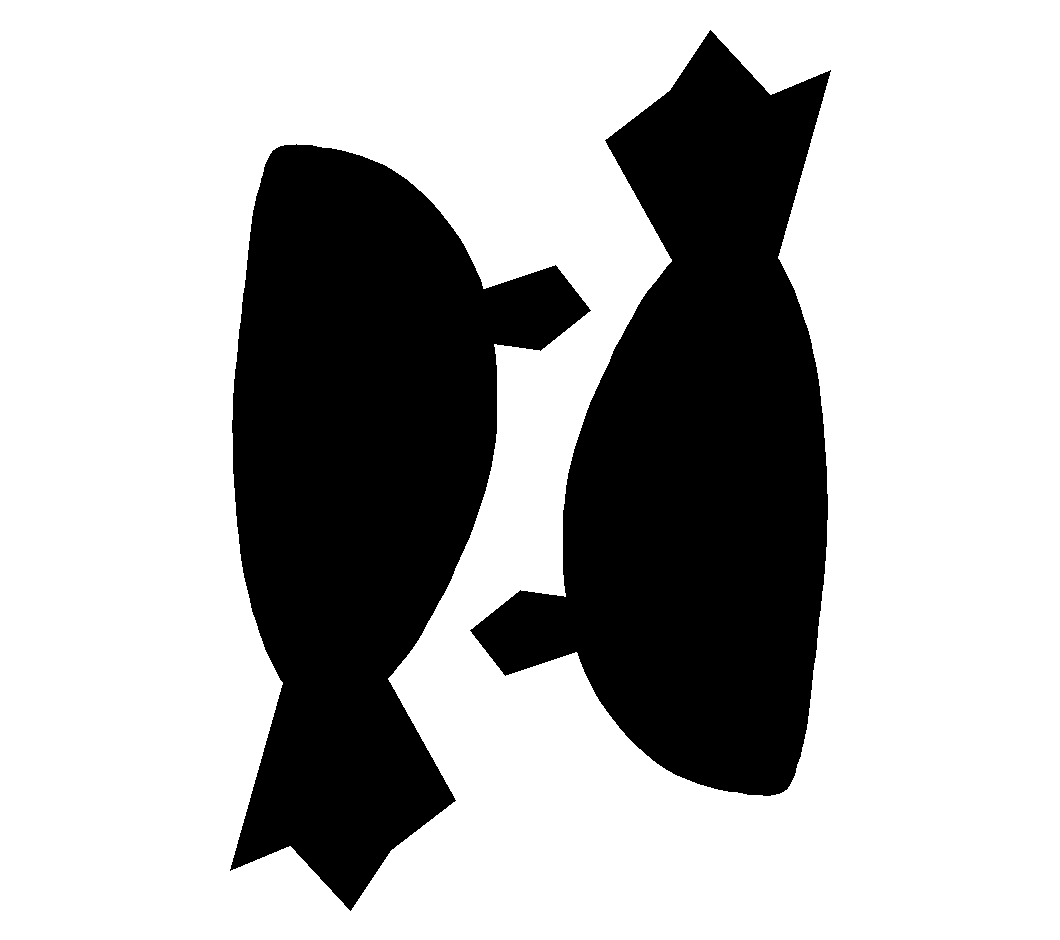
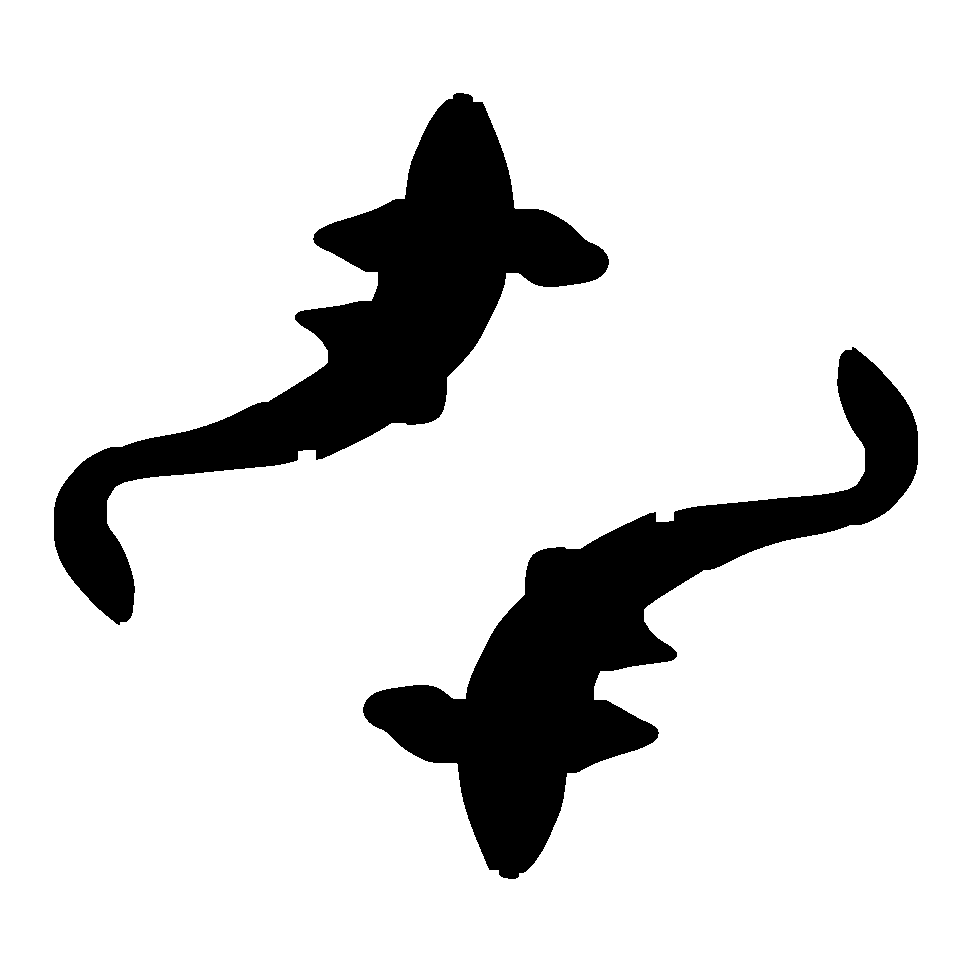
Batch 3 sourced: CC0 wolf on a perch, PD koi pair, pending Eric
Eric's references came from Google -- copyrighted, so their traces
cannot ship. Sourced PD equivalents instead, the route the original dog
and duck took, with Eric's download approval on record:

wolf: Wikimedia Commons File:Wolf.svg (CC0), the classic standing howl.
Composed over a drawn perch with an ALIGNED SEAM -- Eric asked how the
wolf can read as standing ON the perch rather than fused to it, and the
answer is now in the pipeline: the paw line sits flush along the rock's
top with a 36px white gap, so wolf and rock trace as TWO contours (fused,
the paws would vanish into the rock's outline) while the flush alignment
makes the eye close the gap and read contact.

koi: FreeSVG/OpenClipart Koi-Fish (public domain), a coloured top view.
Silhouette extracted (opaque-and-not-tan mask -- the corner-sample first
try masked the whole tan card into two black squares; components >800px
so the fins survive the 4-connected flood; morphological close to fuse
hairline brush gaps that had 14 of 16 raw contours flagging at 0.3-4.7px)
and placed twice, rotated 180, for the circling pair. Two copies of PD
art composed is PD.

Provenance recorded for both with Eric's approval noted; the F8 gate has
titles, licences and source URLs. tools/prep_sourced.py is the
reproducible path from downloaded art to ref PNGs. Zero flags on both;
sidecars pending Eric's verdicts. The drawn versions remain in
draw_wave3.py as fallback.

diff --git a/tools/prep_sourced.py b/tools/prep_sourced.py
@@ -1,0 +1,104 @@
+#!/usr/bin/env python3
+"""Wave-1 batch 3, sourced references (Eric approved the downloads).
+
+wolf: Wikimedia Commons File:Wolf.svg, CC0 -- the classic standing howl.
+      Composed over a drawn perch with an ALIGNED SEAM: the paw line sits
+      flush along the rock's top edge with a 36px white gap, so wolf and
+      rock trace as two contours (fused, the paws would vanish into the
+      rock) while the eye closes the aligned gap and reads "standing on".
+koi:  FreeSVG/OpenClipart Koi-Fish, public domain -- a coloured top view.
+      The SILHOUETTE is extracted (everything that is not the background
+      colour, largest component, holes filled) and placed twice, rotated
+      180, for the circling pair. Composing two copies of PD art is PD.
+"""
+import pathlib
+import sys
+
+from PIL import Image
+
+S = pathlib.Path(sys.argv[1])
+REF = pathlib.Path(__file__).resolve().parents[1] / "content-pipeline/wordpic/ref"
+
+# ---- wolf ----------------------------------------------------------------
+w = Image.open(S / "wolf-cc0.svg.png").convert("RGBA")
+bg = Image.new("RGBA", w.size, (255, 255, 255, 255))
+bg.alpha_composite(w)
+g = bg.convert("L")
+px = g.load()
+W, H = g.size
+# paw baseline: lowest dark row
+lowest = max(y for y in range(H) for x in range(W) if px[x, y] < 128)
+canvas = Image.new("L", (W + 160, lowest + 260), 255)
+canvas.paste(g, (80, 0))
+from PIL import ImageDraw
+d = ImageDraw.Draw(canvas)
+seam = 36
+top = lowest + seam
+d.polygon([(60, top), (W + 100, top), (W + 130, top + 90), (110, top + 110), (30, top + 55)], fill=0)
+canvas.save(REF / "wolf.png")
+print("wolf.png", canvas.size, "paw baseline", lowest, "ridge top", top)
+
+# ---- koi ------------------------------------------------------------------
+k = Image.open(S / "koi-pd.png").convert("RGBA")
+pw, ph = k.size
+# The source has a TRANSPARENT border and a tan card behind the fish; the
+# fish is whatever is opaque and not tan (corner-sampling found the
+# transparent border and masked the whole card -- the two black squares).
+TAN = (255, 225, 161)
+def is_fish(c):
+    r, g, b, a = c
+    if a < 64:
+        return False
+    return not all(abs(v - t) < 40 for v, t in zip((r, g, b), TAN))
+mask = [[is_fish(k.getpixel((x, y))) for x in range(pw)] for y in range(ph)]
+# largest component, 4-connected
+seen = [[False] * pw for _ in range(ph)]
+best = []
+for sy in range(ph):
+    for sx in range(pw):
+        if mask[sy][sx] and not seen[sy][sx]:
+            stack = [(sx, sy)]; comp = []
+            seen[sy][sx] = True
+            while stack:
+                x, y = stack.pop(); comp.append((x, y))
+                for nx, ny in ((x+1,y),(x-1,y),(x,y+1),(x,y-1)):
+                    if 0 <= nx < pw and 0 <= ny < ph and mask[ny][nx] and not seen[ny][nx]:
+                        seen[ny][nx] = True; stack.append((nx, ny))
+            if len(comp) > 800:      # keep body AND fins; drop speckle
+                best.extend(comp)
+solid = Image.new("L", (pw, ph), 255)
+sp = solid.load()
+for x, y in best:
+    sp[x, y] = 0
+# fill holes: flood white from border; anything white not reached is interior
+reach = [[False] * pw for _ in range(ph)]
+stack = [(x, y) for x in range(pw) for y in (0, ph - 1)] + [(x, y) for y in range(ph) for x in (0, pw - 1)]
+for x, y in stack:
+    reach[y][x] = True
+stack = [p for p in stack if sp[p[0], p[1]] == 255]
+while stack:
+    x, y = stack.pop()
+    for nx, ny in ((x+1,y),(x-1,y),(x,y+1),(x,y-1)):
+        if 0 <= nx < pw and 0 <= ny < ph and not reach[ny][nx] and sp[nx, ny] == 255:
+            reach[ny][nx] = True; stack.append((nx, ny))
+for y in range(ph):
+    for x in range(pw):
+        if sp[x, y] == 255 and not reach[y][x]:
+            sp[x, y] = 0
+# CLOSE the mask (dilate+erode): the brush art paints fins a hairline off
+# the body, and 14 of 16 raw contours flagged at 0.3-4.7px. Fused, each
+# fish is ONE silhouette with its fins in the outline -- the dragon recipe.
+from PIL import ImageFilter
+solid = solid.filter(ImageFilter.MinFilter(13)).filter(ImageFilter.MaxFilter(13))
+
+# compose the circling pair: two copies rotated 180, offset diagonally
+fishA = solid
+fishB = solid.rotate(180)
+CW = int(pw * 1.62)
+pair = Image.new("L", (CW, CW), 255)
+ax, ay = 30, int(CW * 0.06)
+bx, by = CW - pw - 30, CW - ph - int(CW * 0.06)
+pair.paste(fishA, (ax, ay), Image.eval(fishA, lambda v: 255 - v))
+pair.paste(fishB, (bx, by), Image.eval(fishB, lambda v: 255 - v))
+pair.save(REF / "koi.png")
+print("koi.png", pair.size)
